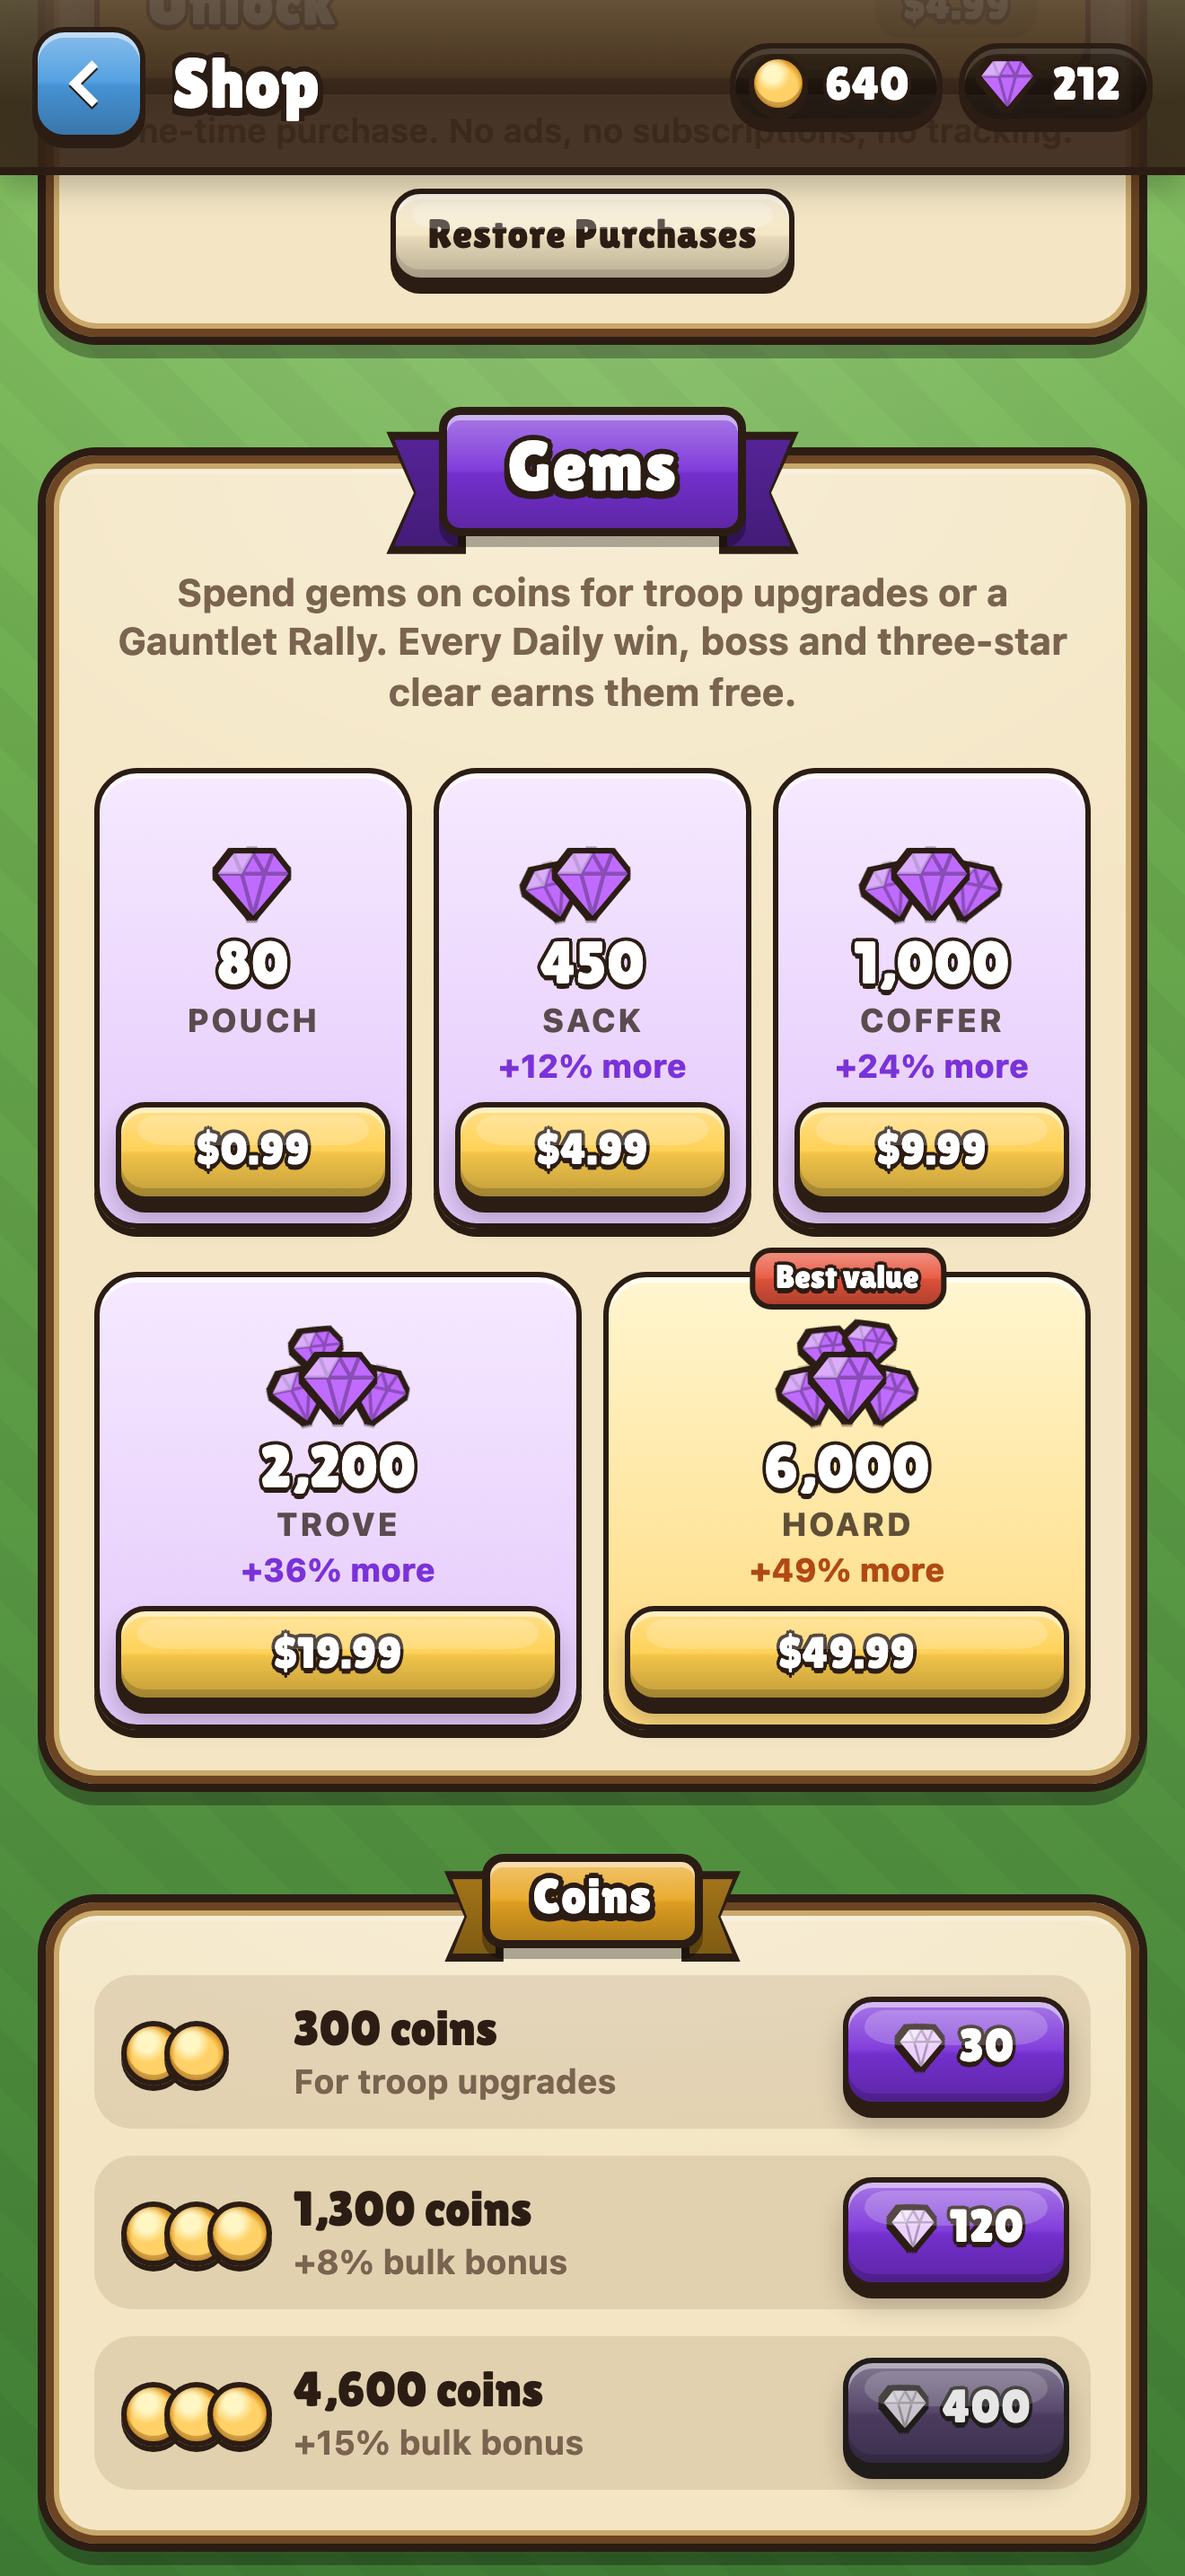
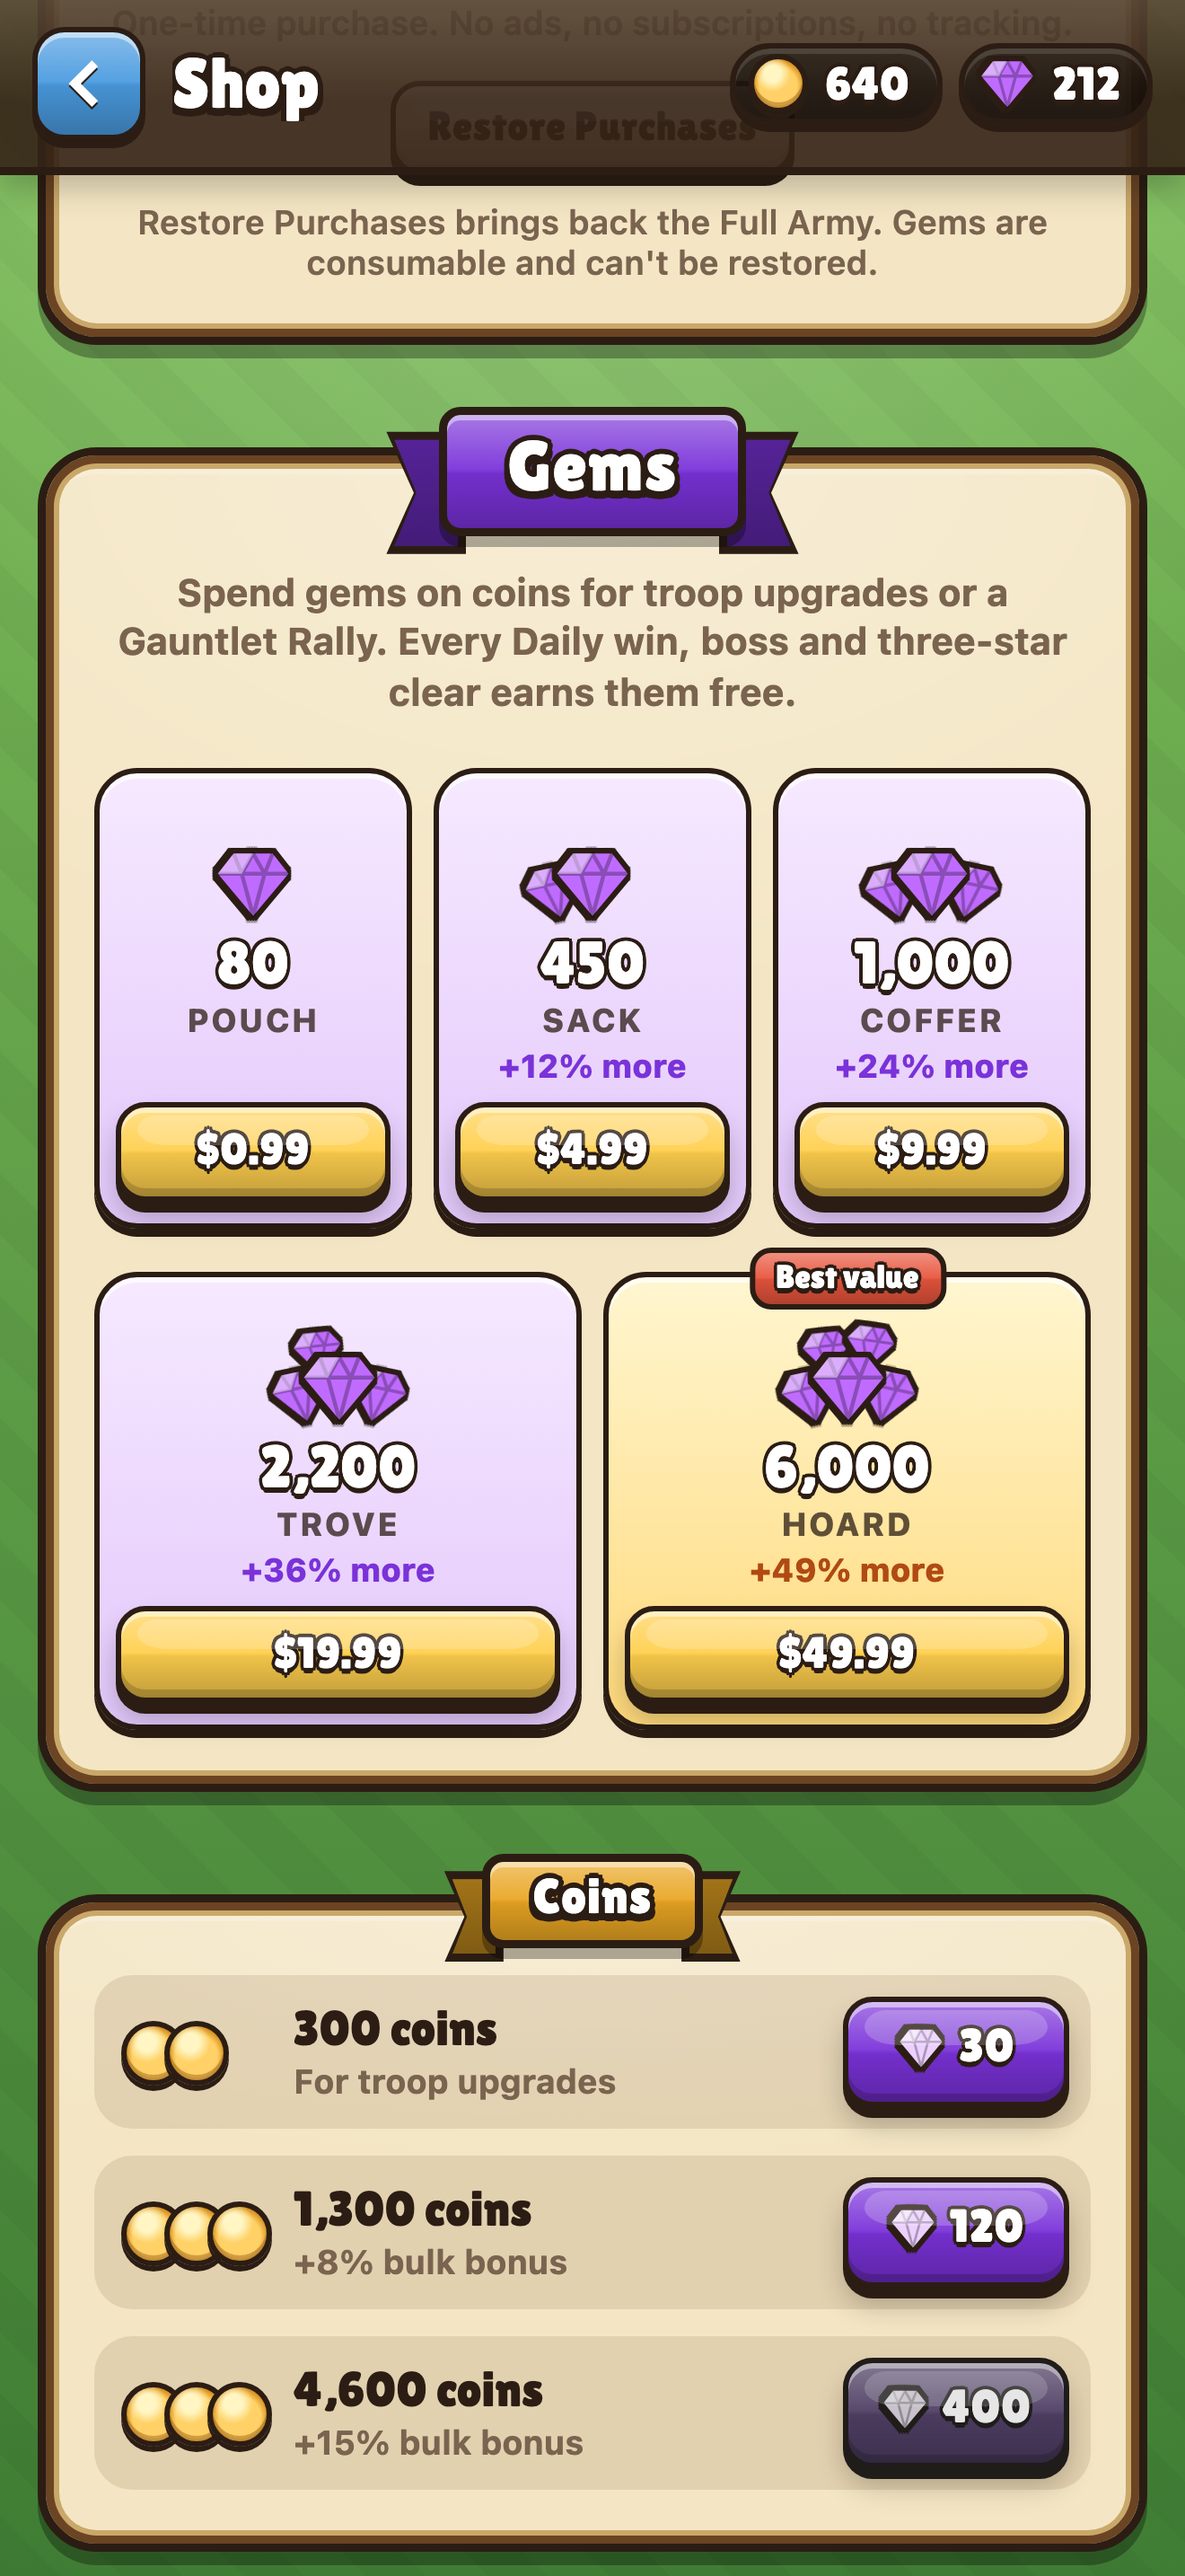
Shop says under Restore Purchases that it brings back the Full Army and gems can't be restored

Changed region(s): [[0.1242, 0.0621, 0.8697, 0.1241]]

diff --git a/src/ui/gemshop.ts b/src/ui/gemshop.ts
@@ -128,7 +128,7 @@ export function shopView(store: StoreController, gems: GemShop) {
 
   load();
   return el("div", { class: "gem-shop" }, [
-    fullArmyOffer(store),
+    fullArmyOffer(store, { restoreNote: `Restore Purchases brings back the Full Army. ${GEM_NAME} are consumable and can't be restored.` }),
     el("section", { class: "gem-section panel" }, [
       ribbon(GEM_NAME, "gem-ribbon"),
       el("p", { class: "gem-lead" }, [`Spend ${GEM_NAME.toLowerCase()} on coins for troop upgrades or a Gauntlet Rally. Every Daily win, boss and three-star clear earns them free.`]),
@@ -140,8 +140,7 @@ export function shopView(store: StoreController, gems: GemShop) {
       ...coinRows.map((c) => c.row),
     ]),
     el("p", { class: "gem-fine" }, [
-      `${GEM_NAME} are used up when spent, so Restore Purchases can't bring them back: it restores the Full Army only. `,
-      "Every pack lists exactly what you get. No ads, no tracking, no random rewards.",
+      `Every pack and bundle gives exactly what it says: no random rewards. ${GEM_NAME} are used up when spent and aren't restored. No ads, no tracking.`,
     ]),
   ]);
 }

diff --git a/src/ui/shop.ts b/src/ui/shop.ts
@@ -38,6 +38,8 @@ export interface OfferOpts {
   onOwned?: () => void;
   /** Smaller layout for sheets. */
   compact?: boolean;
+  /** A line under Restore Purchases (the Shop says what it does and doesn't bring back). */
+  restoreNote?: string;
 }
 
 /** The Full Army offer: art, what it opens, the store price on the buy button, Restore Purchases, and every buy state. */
@@ -55,6 +57,7 @@ export function fullArmyOffer(store: StoreController, o: OfferOpts = {}) {
     owned, buy, status,
     el("p", { class: "shop-fine" }, ["One-time purchase. No ads, no subscriptions, no tracking."]),
     restore,
+    ...(o.restoreNote ? [el("p", { class: "shop-fine shop-restore-note" }, [o.restoreNote])] : []),
   ]);
 
   let busy = false;
